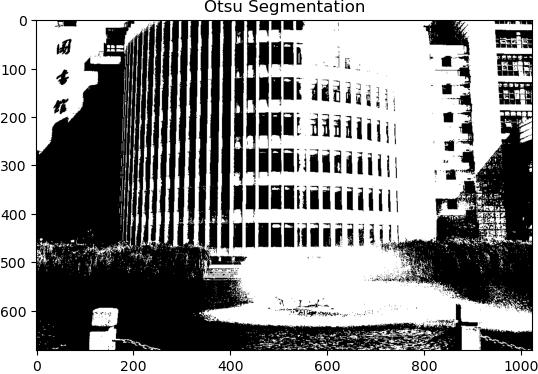
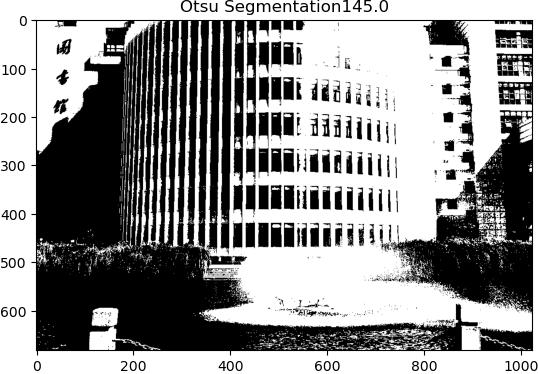
main

Changed region(s): [[0.3271, 0.0, 0.7435, 0.0588]]

diff --git a/O/main.py b/O/main.py
@@ -6,48 +6,13 @@ import matplotlib.pyplot as plt
 img = cv.imread('../img/imgae1.jpg', cv.IMREAD_GRAYSCALE)
 
 # ----------使用Otsu方法进行二值化-----------
-ret, otsu_result = cv.threshold(img, 0, 255, cv.THRESH_BINARY + cv.THRESH_OTSU)
+ret, otsu_result = cv.threshold(img, 0, 255, cv.THRESH_OTSU)
 
 # 显示结果
 plt.imshow(otsu_result, cmap='gray')
-plt.title('Otsu Segmentation')
+plt.title('Otsu Segmentation' + str(ret))
 plt.savefig("../result/O/res1.jpg", bbox_inches='tight', pad_inches=0)
 
 
 
 # ----------基于边缘检测和Otsu方法的分割-----------
-# 使用Sobel算子计算图像的梯度幅度（边缘检测）
-sobel_x = cv.Sobel(img, cv.CV_64F, 1, 0, ksize=3)
-sobel_y = cv.Sobel(img, cv.CV_64F, 0, 1, ksize=3)
-gradient_magnitude = np.sqrt(sobel_x**2 + sobel_y**2)
-
-# 归一化梯度幅度
-gradient_magnitude = cv.normalize(gradient_magnitude, None, 0, 255, cv.NORM_MINMAX)
-
-# 设定一个阈值T，可以根据实际情况调整
-T = np.percentile(gradient_magnitude, 90)  # 选择90%强度的边缘作为阈值
-
-# 生成二值图像g_T(x, y)
-_, g_T = cv.threshold(gradient_magnitude, T, 255, cv.THRESH_BINARY)
-
-# 用g_T(x, y)作为模板，选择强边缘区域
-strong_edges = (g_T == 255).astype(np.uint8)
-strong_edge_pixels = img * strong_edges  # 只保留强边缘区域
-
-# 计算仅包含强边缘像素的图像的直方图
-hist = cv.calcHist([strong_edge_pixels], [0], None, [256], [0, 256])
-
-# 使用Otsu方法对强边缘区域进行全局分割
-ret, otsu_result = cv.threshold(strong_edge_pixels, 0, 255, cv.THRESH_BINARY + cv.THRESH_OTSU)
-
-# 显示结果
-plt.imshow(otsu_result, cmap='gray')
-plt.title('Otsu with Strong Edges')
-plt.savefig("../result/O/res2.jpg", bbox_inches='tight', pad_inches=0)
-
-plt.figure()
-plt.title("Histogram of Strong Edge Pixels")
-plt.xlabel("Pixel Intensity")
-plt.ylabel("Frequency")
-plt.plot(hist)
-plt.show()
